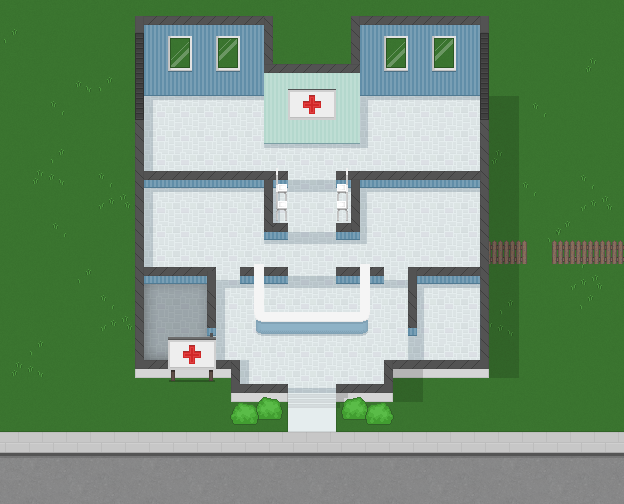
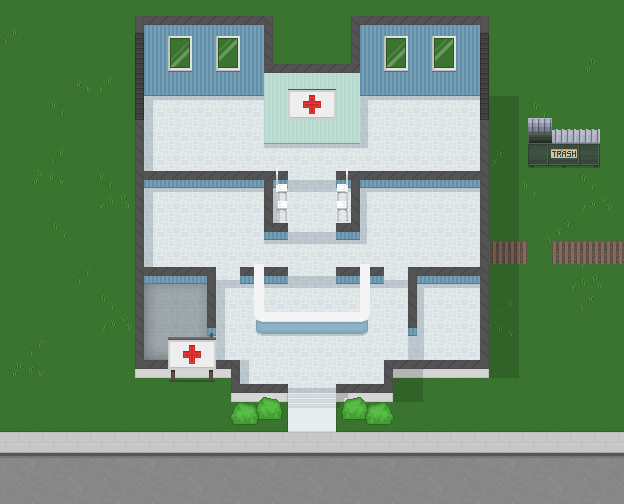
adjust map for trash can position

Changed region(s): [[0.8221, 0.2083, 0.9744, 0.3274]]

diff --git a/src/game/Level.js b/src/game/Level.js
@@ -12,7 +12,7 @@ function Level() {
         + '-----wwwwwww--wwwwwww-----\n'
         + '-----w-b-b-w--w-b-b-w-----\n'
         + '-----w-b-b-wwww-b-b-w-----\n'
-        + '-----w--------------w--p--\n'
+        + '-----w--------------w-p---\n'
         + '-----wwwwwww--wwwwwww-----\n'
         + '-----w-b-b-w--w-b-b-w-----\n'
         + '-----w-b-b-w--w-b-b-w-----\n'
